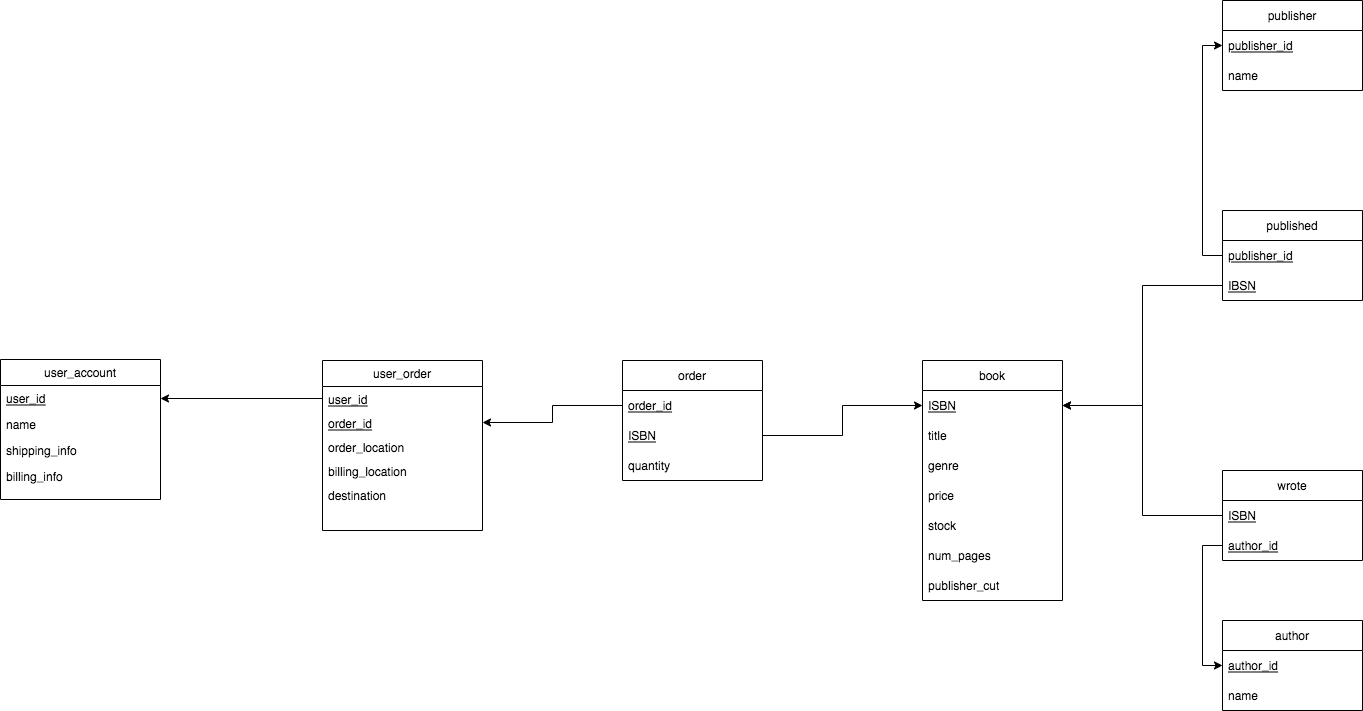
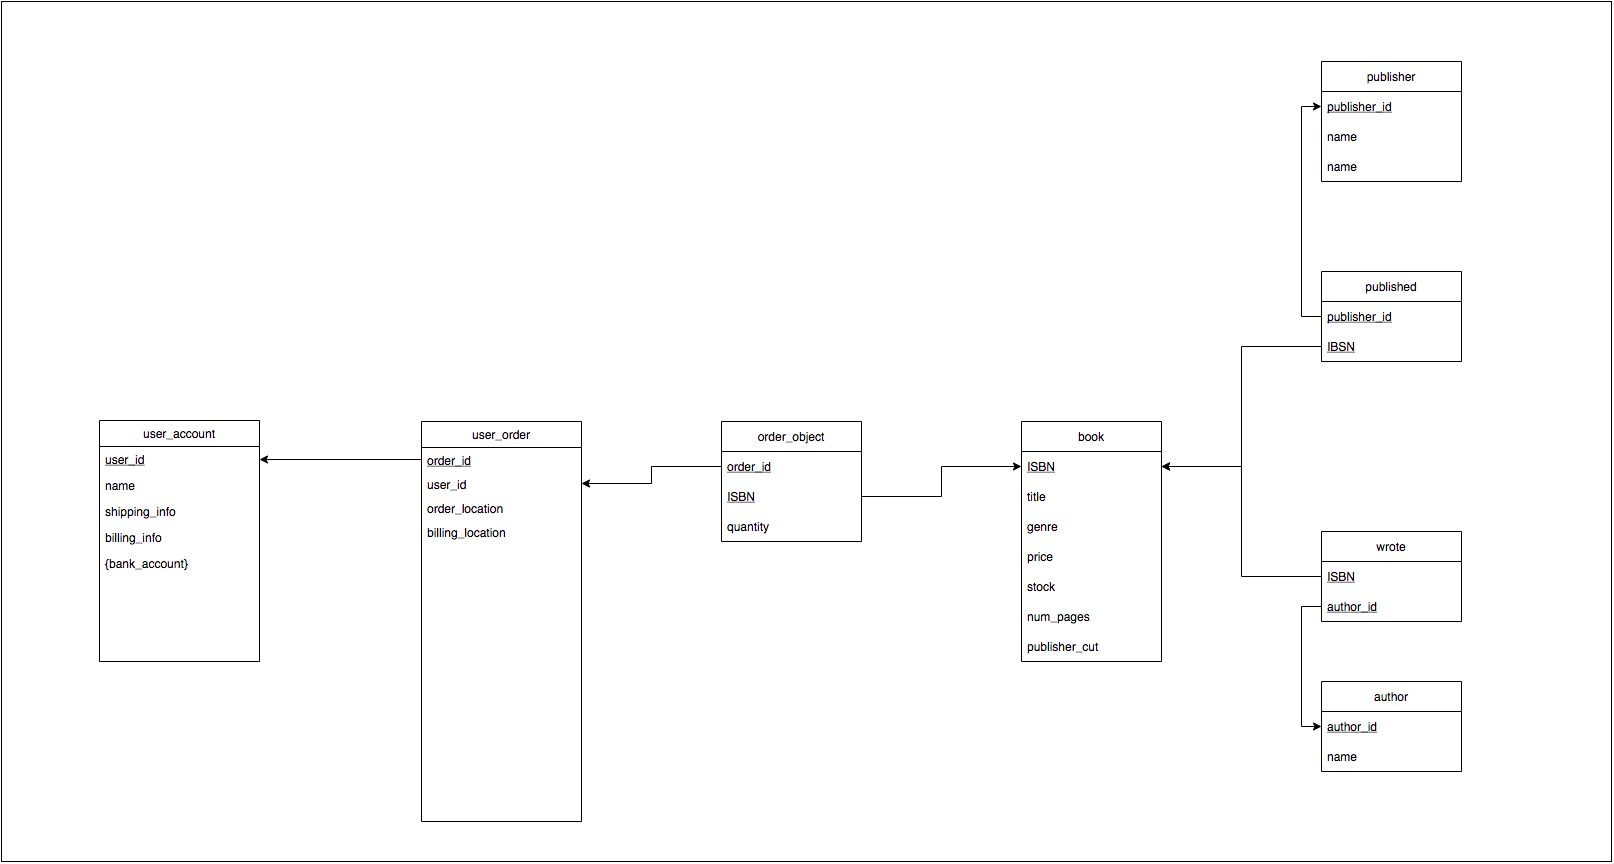
Dec 6 meeting changes

diff --git a/instructions/PROJECT.md b/instructions/PROJECT.md
@@ -76,10 +76,14 @@ FRONTEND:
 
 ASK TA ABOUT:
 - Is book_order going to be redundant? We think so. (double diamond)
-    You can have a book without an order, but an order needs books, this
-- If the user inputs a different billing/shipping address, do we need to save that new address IN USER?
+    You can have a book without an order, but an order needs books...
 
 - Do we need to show all attributes in relation schema? How do we show composites?
+
+- I think we need to show FD's for the whole table, not just for individual
+relations i.e show what just the user_id implies for the WHOLE table. (SHOW FD's document)
+
+- Do we need more about banking?
 
 COMPARE TO ER_DIAGRAM FROM A3?
 We aren't actually gonna make a table for book_order, it just exists in the relation
@@ -102,9 +106,9 @@ NOTES 12/02/2021
 When making user_id, have a U as first letter ex: U12334123
 when making publisher_id, have a P as first letter ex: P1231233
 when making author_id, have an A as first letter: ex: A123131411
-NOTES 12/02/2021
+NOTES 12/03/2021
 book needs an author, we need to add this limitation
 we need to query by INNER JOINS, NOT natural joins
 example to 'natural join' user_account and user_order
 select * from user_order inner join user_account using (user_id)
-
+NOTES 12/04/2021
